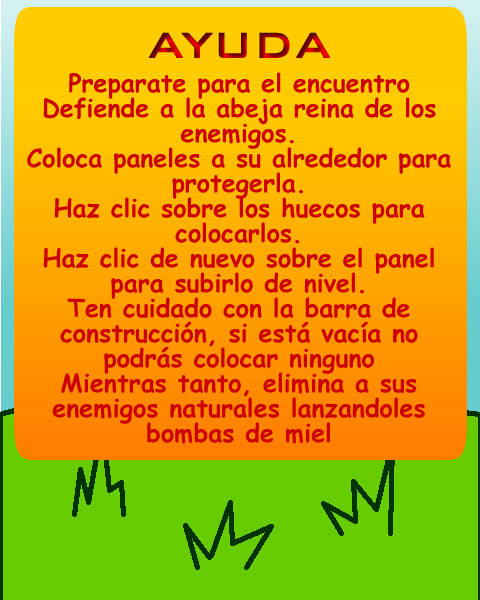
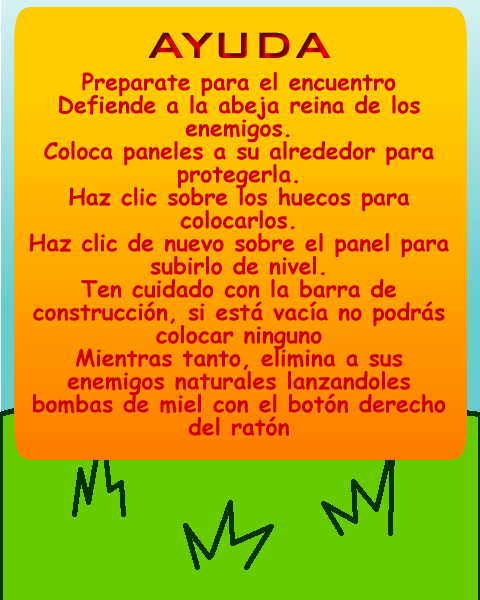
Corregida posición de botones Records probados Cambio en ayuda2

Changed region(s): [[0.0625, 0.12, 0.9375, 0.75]]

diff --git a/proyecto/Juego.java b/proyecto/Juego.java
@@ -107,13 +107,13 @@ public class Juego extends World
     public void ayuda1()
     {
         setBackground(getImagen(0));
-        addObject(siguiente, getWidth() / 2, 500);
+        addObject(siguiente, getWidth() / 2, 540);
     }
     
     public void ayuda2()
     {
         setBackground(getImagen(1));     
-        addObject(siguiente2, getWidth() / 2, 500);
+        addObject(siguiente2, getWidth() / 2, 540);
     }
     
     public void record()
